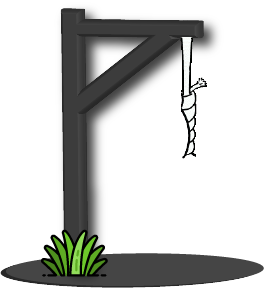
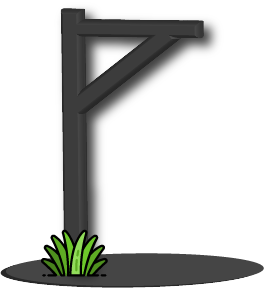
amelioration js, images, css

Changed region(s): [[0.6667, 0.1241, 0.7879, 0.5586]]

diff --git a/script.js b/script.js
@@ -1,6 +1,9 @@
   
 
-var image = new Image();                                   //image.src = "imgPendu.png";
+var images = document.getElementsByClassName("p");
+var perdu = document.querySelector(".perdu");              // var qui recupere la phrase lorsque l'on perd
+var gagner = document.querySelector(".gagner");              // var qui recupere la phrase lorsque l'on perd
+var afficheReponse = document.getElementById("solut");      // recup id solut html
 var motMystere;                                            //var mots = new Array() remplacé par []
 var mots = ["javascript", "bonjour", "decouverte", "youpi", "code", "lexomil", "desespoir", "absurde", "fastidieux", "malchanceux"];
 var nombrecoup = 7;                                        //nombre de chances//
@@ -9,7 +12,9 @@ var clavier = document.querySelectorAll(".lettre");        //variable clavier qu
 var motMystere = mots[Math.floor(Math.random()*mots.length)];//choix d'un mot dans le tableau//   
 var motMystereMaj = motMystere.toUpperCase();
 var divBoite = document.querySelector(".reponse");
-          
+
+      //boucle
+
 for(i=0; i<motMystereMaj.length; i++){                      //boucle qui calcul le nbr de lettre dans le mot mystere
     var input = document.createElement("input");            //creation des input par rapport a la longeur du mot
     divBoite.appendChild(input);                            //dans la divBoite tu cree la variable input
@@ -21,20 +26,43 @@ for(i=0; i<clavier.length; i++){
     clavier[i].addEventListener("click",verifier);          // boucle qui mets un evenement click a toutes les classes lettre 
 }
 
-function verifier(){                                        // fonction qui vas recuperer le contenu html et l'attribut au click
-    coupjouer++
-    var boiteL = document.getElementsByClassName("boite");    
-    var recup = this.innerText;
+// fonction qui vas recuperer le contenu html et l'attribut au click
 
-    if(coupjouer < 8){
+function verifier(){                                        
+    
+    var boiteL = document.getElementsByClassName("boite");    // boite qui contient les lettres (input)
+    var recup = this.innerText;                               // recupere la lettre au click du clavier
+    var state = false;                                        // var etat = 
+    
+    if(coupjouer < nombrecoup){
         
         for(i=0; i < motMystereMaj.length; i++){
 
             if(motMystereMaj[i] == recup ){
-                boiteL[i].value = recup;                //afficher et recuperer la valeur du clic dans l'inout si correspond au mot
-            }
-        }    
-    }else {
-        alert("vous avez perdu!!!!!!!!")
+                boiteL[i].value = recup;                //afficher et recuperer la valeur du clic dans l'input si correspond au mot
+                state = true;  
+            }               
+               
+        } 
+    
+    gagner.classList.remove("cacher");
+        
+    }else {                                           //PERDU
+        perdu.classList.remove("cacher");             // enleve la classe cacher et affiche la phrase perdu
+        afficheReponse.innerHTML = motMystereMaj;     // recupere la div reponse html et affiche le mot a trouver
+        
+    }  
+    if(state == false){
+        if(coupjouer >= 0 && coupjouer <7){
+        coupjouer++;
+         console.log(coupjouer);
+        
+        images[0].src = "image/pendu"+(coupjouer)+".png";
+        }
+        }
+        //console.log(images[0].src = "image/pendu"+(coupjouer)+".png");
+        
+        
     }
-}
+    
+   

diff --git a/jeuPendu.html b/jeuPendu.html
@@ -52,13 +52,12 @@
             </div>
            <div class="contenair">
                 <div class="images">
-                    <!--<img class="p0 cacher" class="imgpendu" src="image/pendu0.png" width="264" height="290" alt="dessin de la potence">
-                    <!--<img class="p1 cacher" class="imgpendu" src="image/pendu1.png" width="264" height="290" alt="dessin de la potence + corde">
-                    <!--<img class="p2 cacher" class="imgpendu" src="image/pendu2.png" width="264" height="290" alt="dessin de la potence + corde + tete">
-                    <!--<img class="p3 cacher" class="imgpendu" src="image/pendu3.png" width="264" height="290" alt="dessin de la potence + corde + tete + corps">
-                    <!--<img class="p4 cacher" class="imgpendu" src="image/pendu4.png" width="264" height="290" alt="dessin de la potence + corde + tete + corps + bras gauche">
-                    <!--<img class="p5 cacher" class="imgpendu" src="image/pendu5.png" width="264" height="290" alt="dessin de la potence + corde + tete + corps + bras gauche + bras droit">
-                    <!--<img class="p6 cacher" class="imgpendu" src="image/pendu6.png" width="264" height="290" alt="dessin de la potence + corde + tete + corps + bras gauche + bras droit + langue"><-->
+                    <img class="p"  src="image/pendu.png" width="264" height="290" alt="dessin de la potence + corde">
+                    <!--<img class="p cacher"  src="image/pendu2.png" width="264" height="290" alt="dessin de la potence + corde + tete">
+                    <img class="p cacher"  src="image/pendu3.png" width="264" height="290" alt="dessin de la potence + corde + tete + corps">
+                    <img class="p cacher"  src="image/pendu4.png" width="264" height="290" alt="dessin de la potence + corde + tete + corps + bras gauche">
+                    <img class="p cacher"  src="image/pendu5.png" width="264" height="290" alt="dessin de la potence + corde + tete + corps + bras gauche + bras droit">
+                    <img class="p cacher"  src="image/pendu6.png" width="264" height="290" alt="dessin de la potence + corde + tete + corps + bras gauche + bras droit + langue">-->
                 </div>
 
                 <div class="reponse"></div>
@@ -106,11 +105,11 @@
             </div> 
         
             <div id="resultat">
-               <div class="cacher">
+               <div class="perdu cacher">
                     <p>Perdu ! Le mot à trouver était :</p>
-                    <!--<div id="motAtrouver">_ _ _ _ _ _ _ _ _ _ _</div><-->
+                    <div id="solut"></div>
                 </div>
-                <p class="cacher">Bravo !!!</p>
+                <p class="gagner cacher">Bravo !!!</p>
             </div>
         
             <a class="lien" href="javascript:location.reload();">Rejouer</a>

diff --git a/css/stylependu.css b/css/stylependu.css
@@ -11,9 +11,10 @@ body{
 }
 
 .images{
-    width: 280px;
-    height: 320px;
-    background-image: url("../image/imgPendu.png");
+    width: 310px;
+    padding-bottom: 20px;
+    text-align: center;
+    padding-top: 30px;
     background-position: -16px;
     margin: 0; 
     background-color: white;
@@ -135,6 +136,10 @@ a:hover{
     height: 30px;
     color: black;
     width: 70px;
+    font-family:  'Love Ya Like A Sister', cursive;
+    text-align: center;
+    font-size: 30px;
+    font-weight: bold;
    
     
     
